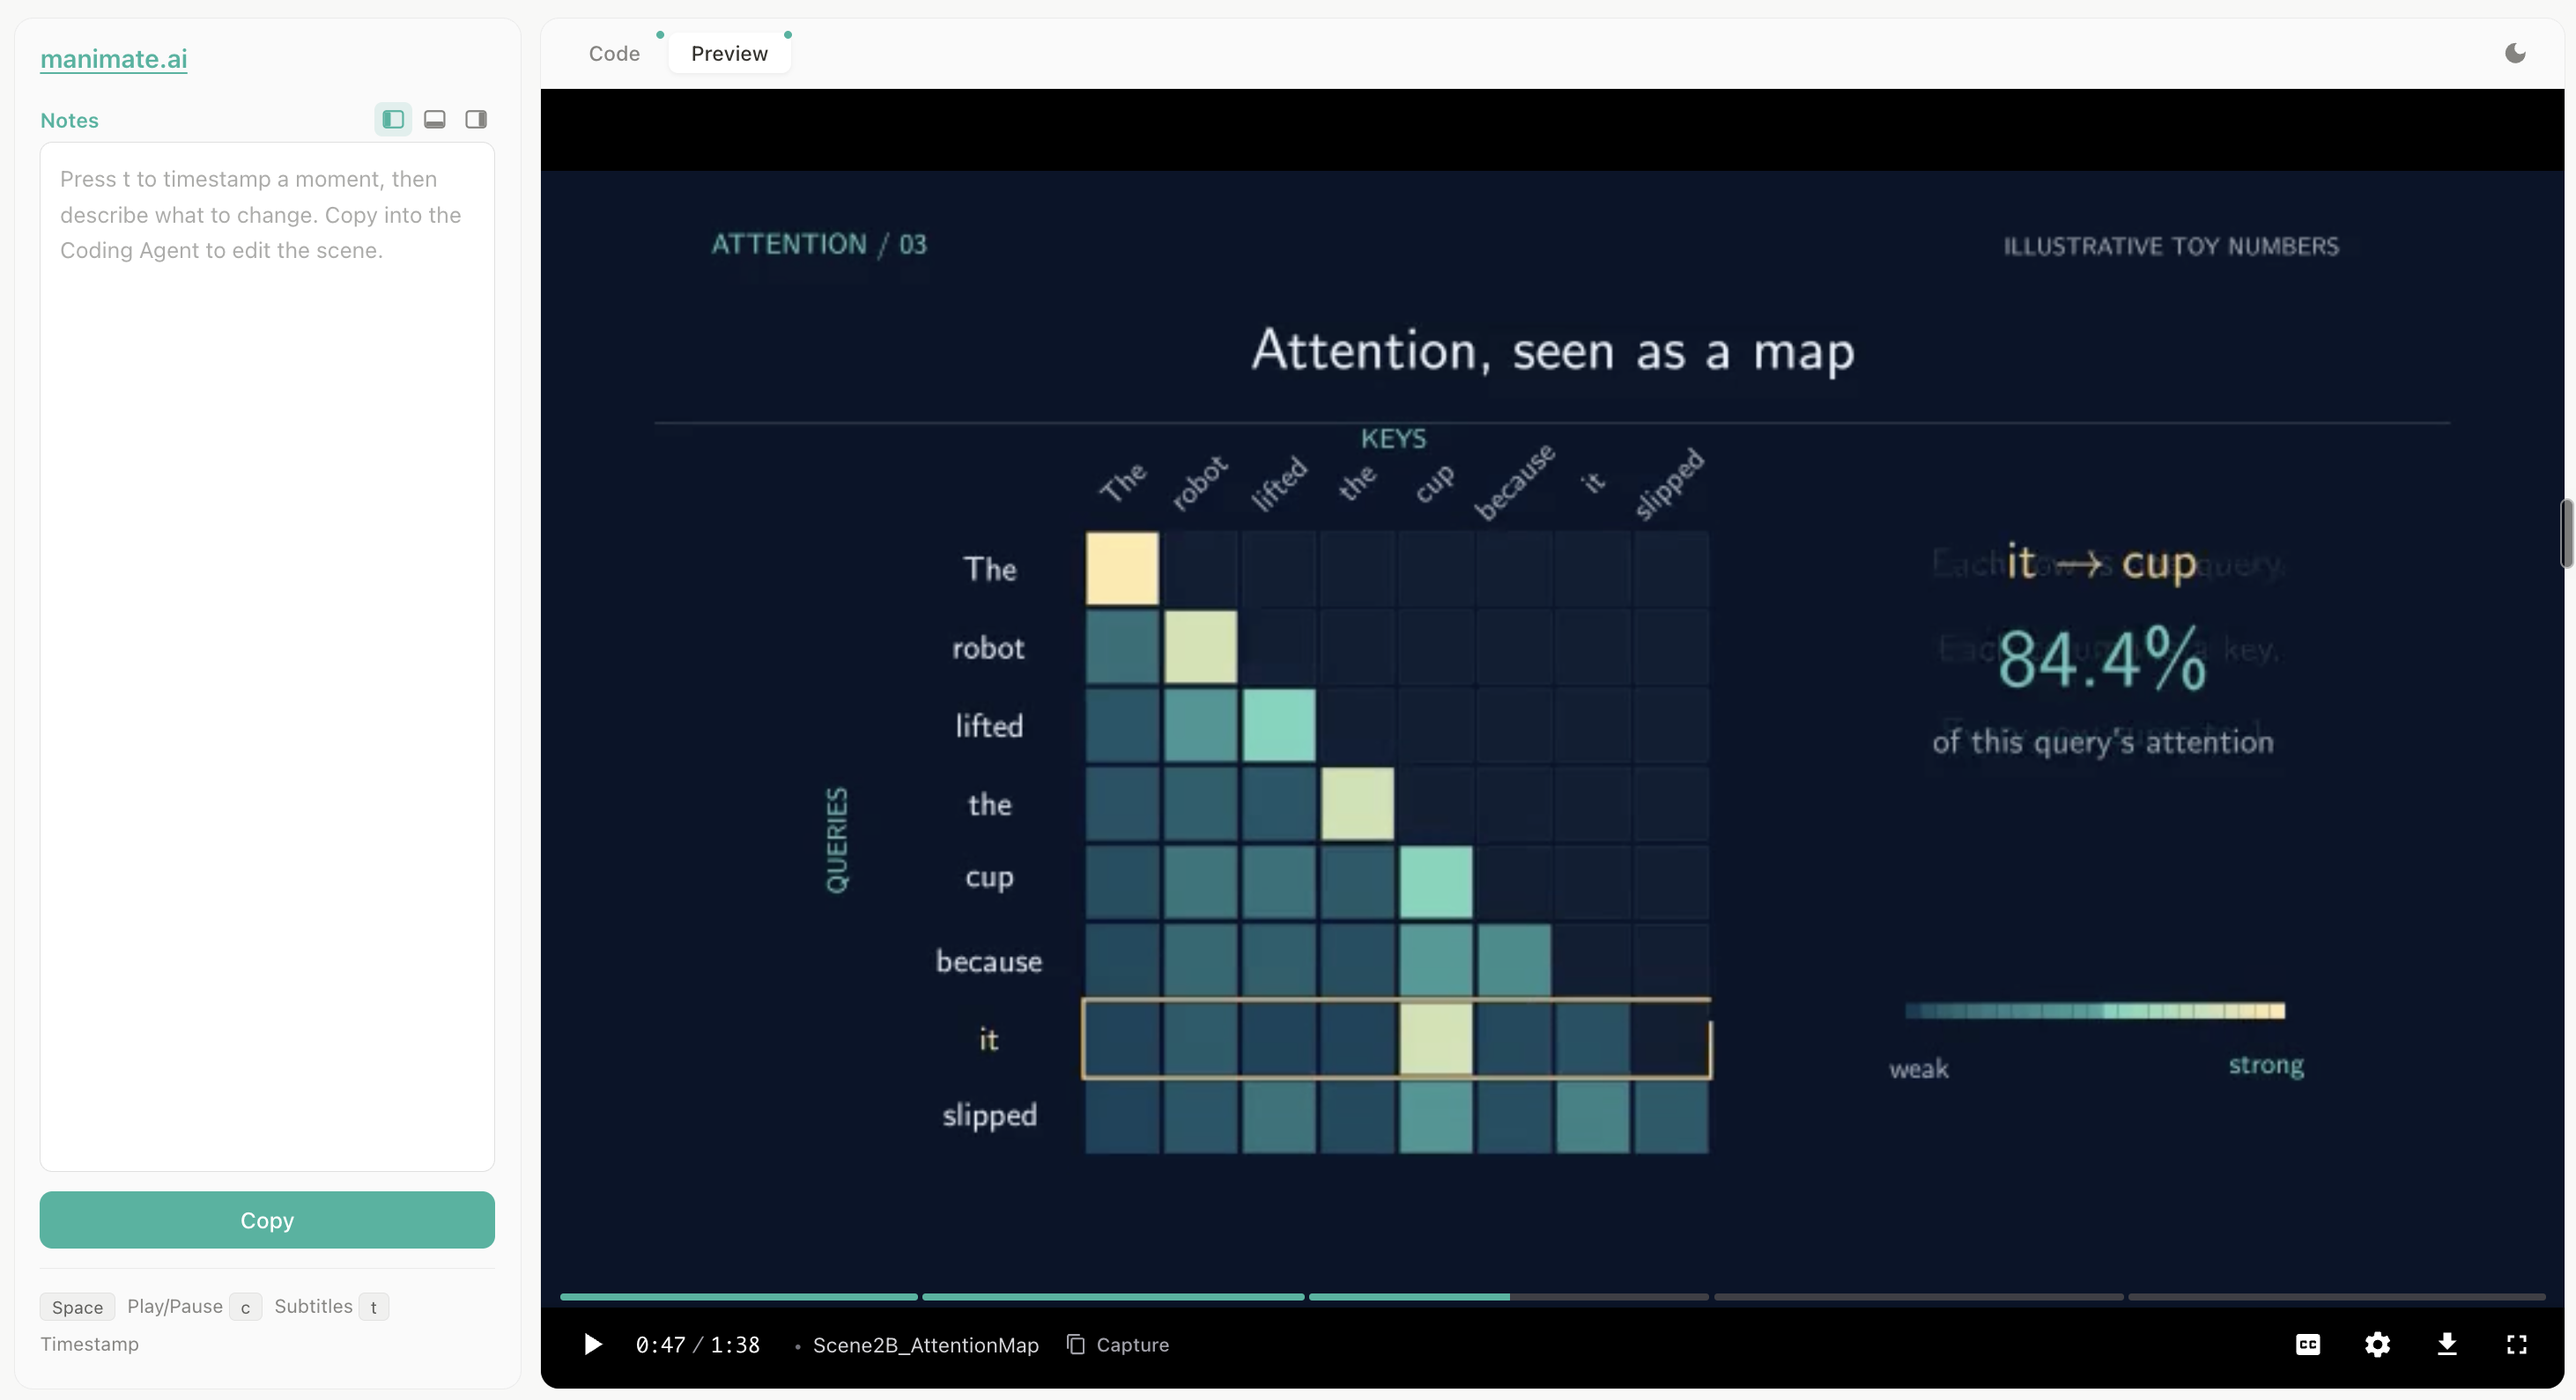
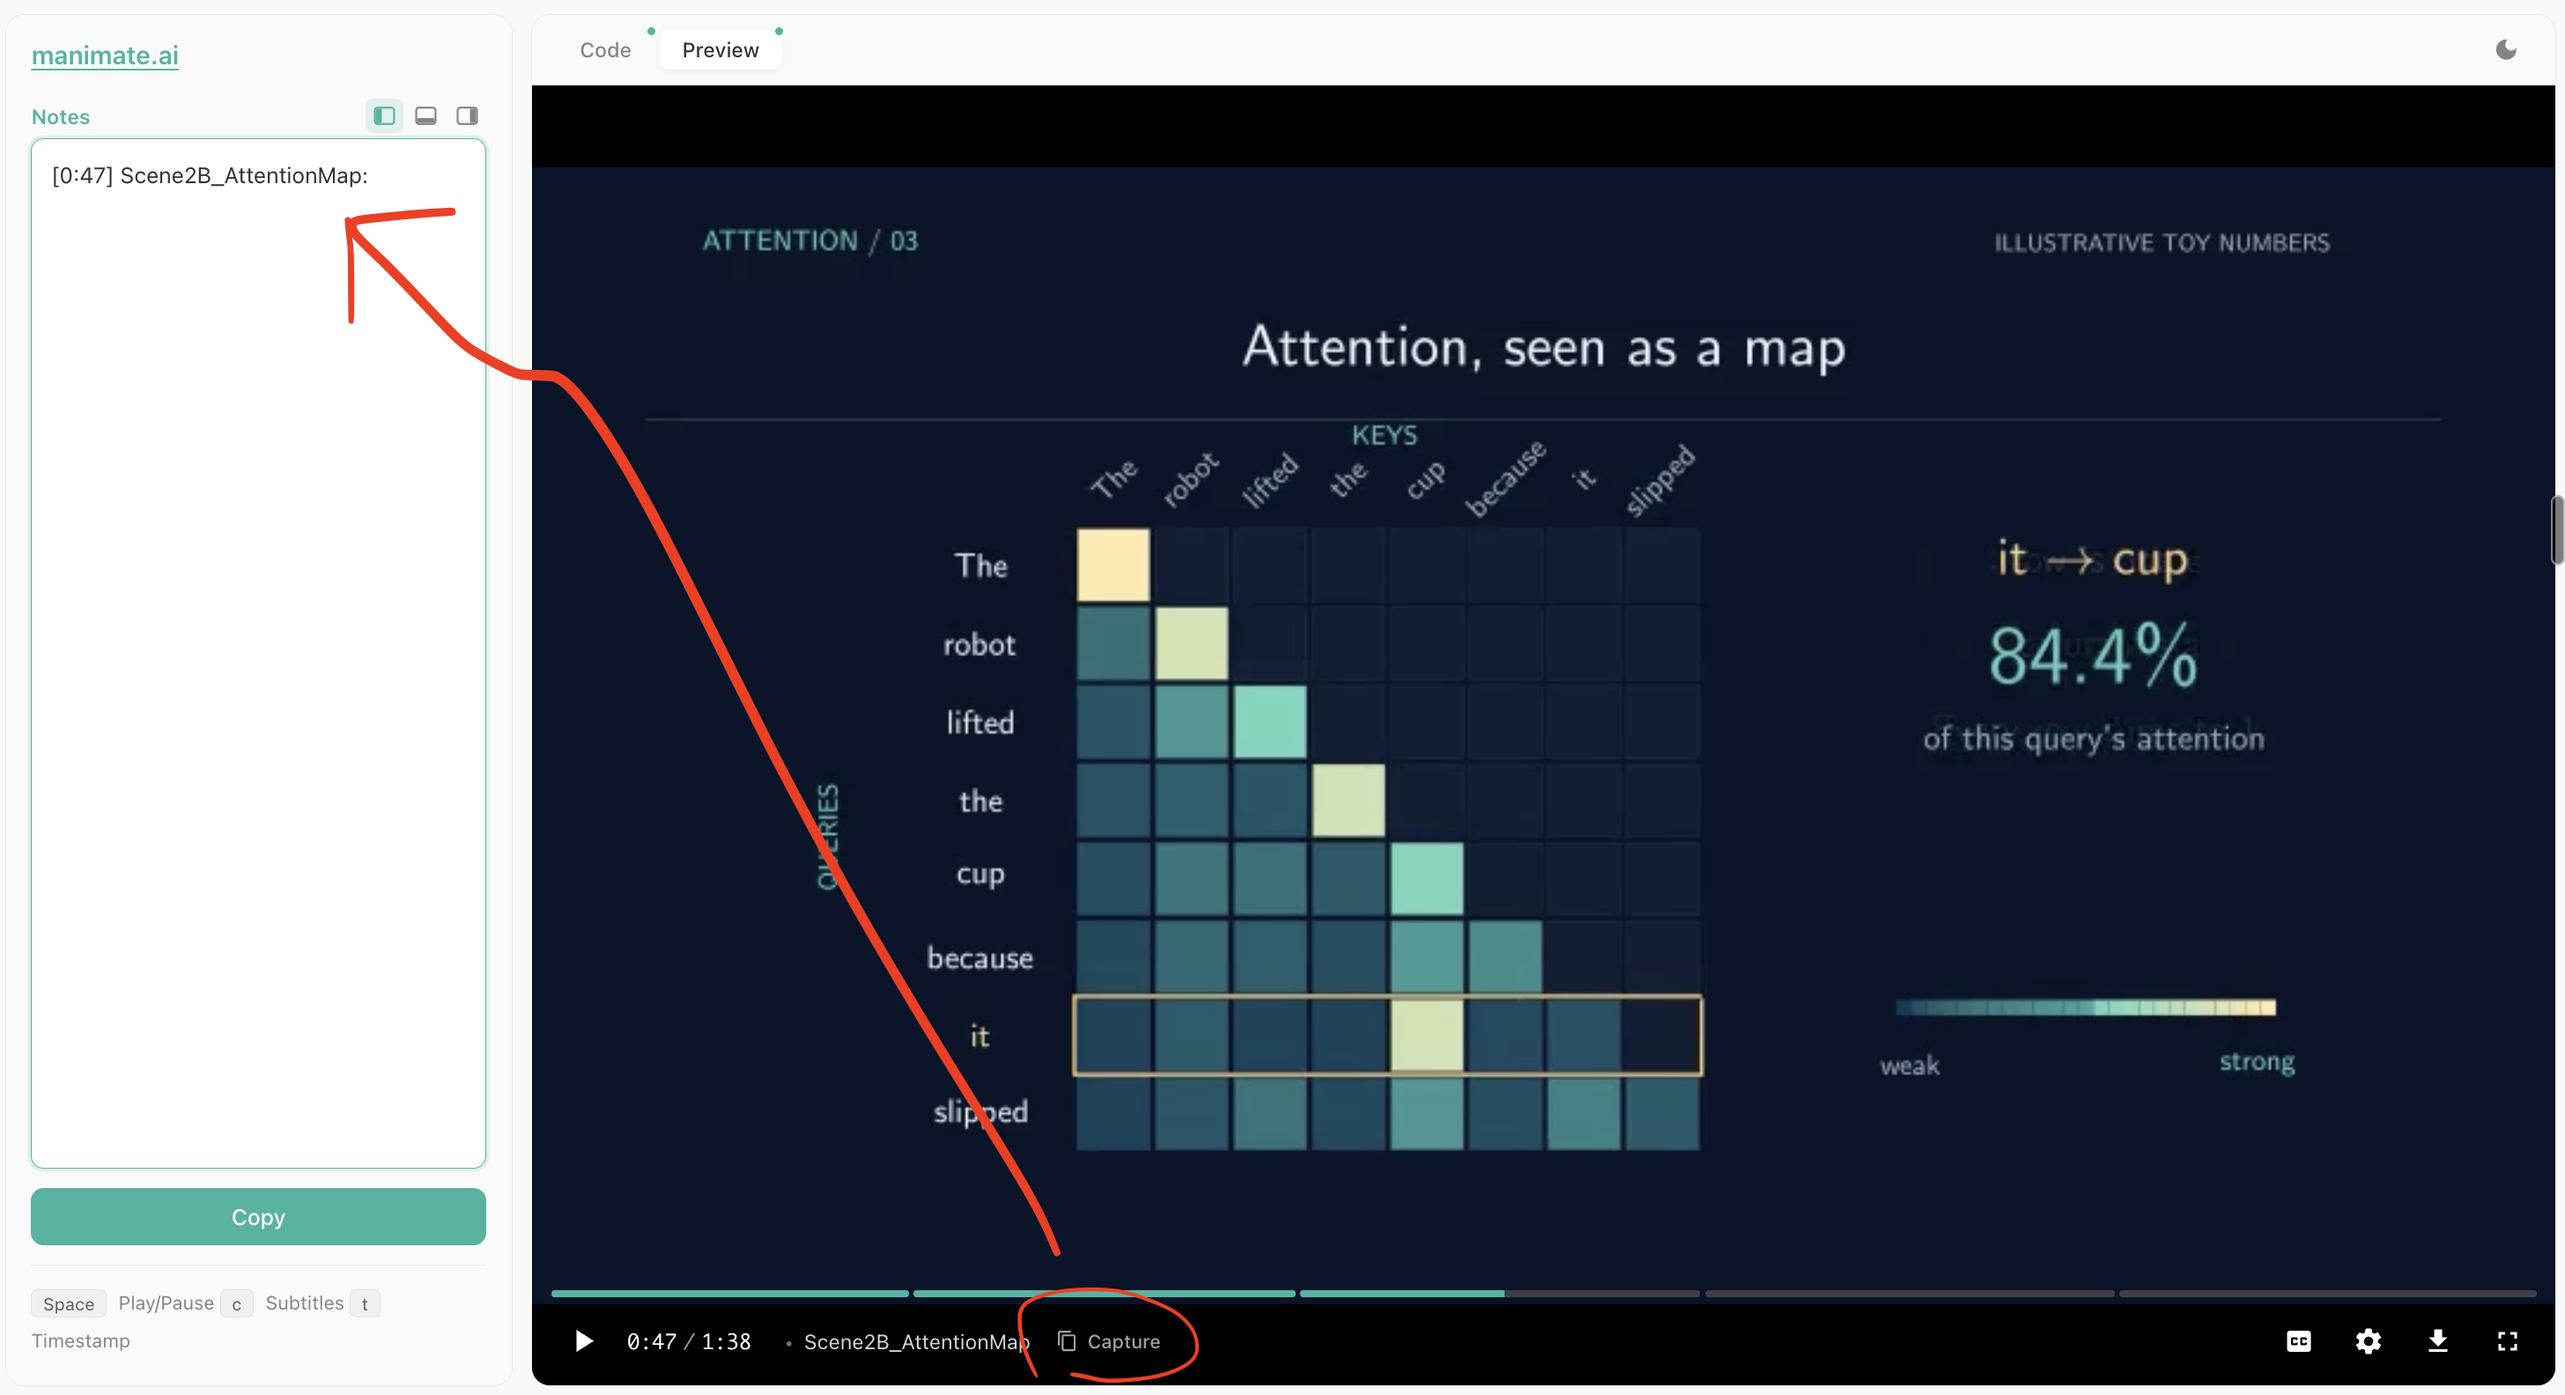
Update viewer screenshot to illustrate timestamp capture

diff --git a/README.md b/README.md
@@ -41,7 +41,7 @@ in the animation code, without creating a separate plan document.
    copy it into Claude Code, and Claude refines the video based on your notes.
    The same workflow works with Codex.
 
-   ![Video viewer showing an attention heatmap, a Notes panel, and Capture and Copy controls](skills/manim-skill/tools/video_viewer.png)
+   ![Video viewer showing how Capture adds a timestamp and scene name to Notes, with an annotated arrow](skills/manim-skill/tools/video_viewer.png)
 
    Watch the video and pause at a moment you want to discuss. Click **Capture**
    or press **t** to add the current timestamp and scene name to **Notes**.
